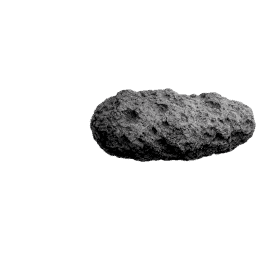
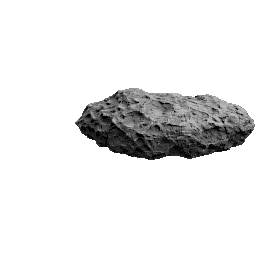
New asteroid images

Changed region(s): [[0.2812, 0.3438, 1.0, 0.6562]]

diff --git a/source/server/model/ships/terrain/asteroidSNew.php b/source/server/model/ships/terrain/asteroidSNew.php
@@ -8,8 +8,8 @@ class asteroidSNew  extends Terrain{
 		$this->faction = "Terrain";        
 		$this->factionAge = 1;        
         $this->phpclass = "asteroidSNew";
-        $this->imagePath = "img/ships/AsteroidS1.png";
-        $this->canvasSize = 256;
+        $this->imagePath = "img/ships/asteroidField1.png";
+        $this->canvasSize = 200;
         $this->shipClass = "Asteroid (Small)";
         $this->Enormous = true; 
 		$this->iniativebonus = -200; //no voluntary movement anyway

diff --git a/source/server/model/ships/terrain/asteroidLNew.php b/source/server/model/ships/terrain/asteroidLNew.php
@@ -8,8 +8,8 @@ class asteroidLNew  extends Terrain{
 		$this->faction = "Terrain";       
 		$this->factionAge = 1;        
         $this->phpclass = "asteroidLNew";
-        $this->imagePath = "img/ships/AsteroidL1.png";
-        $this->canvasSize = 256;
+        $this->imagePath = "img/ships/asteroidField3.png";
+        $this->canvasSize = 200;
         $this->shipClass = "Asteroid (Large)";
         $this->Enormous = true; 
 		$this->iniativebonus = -200; //no voluntary movement anyway

diff --git a/source/server/model/ships/terrain/asteroidMNew.php b/source/server/model/ships/terrain/asteroidMNew.php
@@ -8,8 +8,8 @@ class asteroidMNew  extends Terrain{
 		$this->faction = "Terrain";      
 		$this->factionAge = 1;        
         $this->phpclass = "asteroidMNew";
-        $this->imagePath = "img/ships/AsteroidM.png";
-        $this->canvasSize = 256;
+        $this->imagePath = "img/ships/asteroidField2.png";
+        $this->canvasSize = 200;
         $this->shipClass = "Asteroid (Medium)";
         $this->Enormous = true; 
 		$this->iniativebonus = -200; //no voluntary movement anyway
